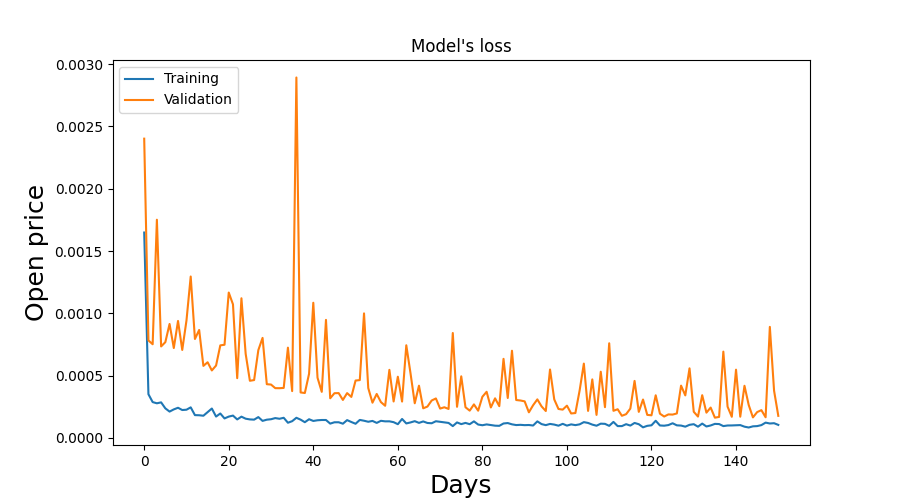
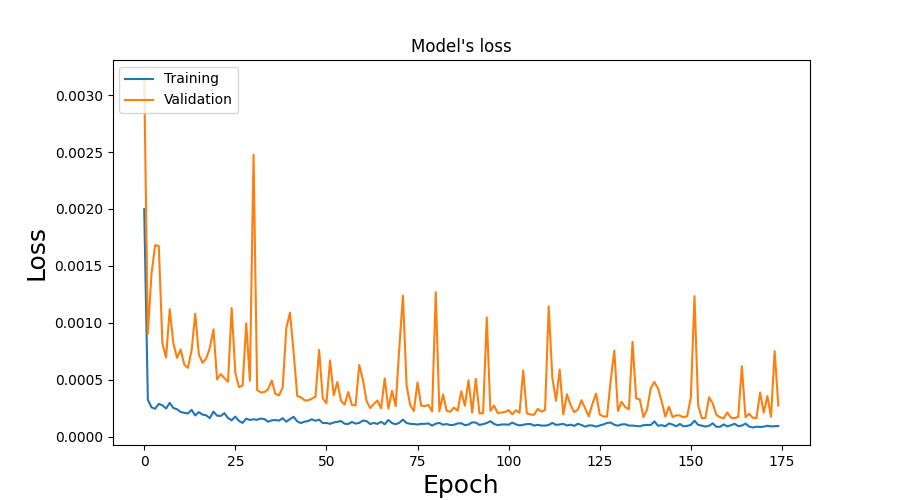
typo on chart

diff --git a/visualization.py b/visualization.py
@@ -19,12 +19,13 @@ def show_dataframe_chart(df: pd.DataFrame, title: str = ""):
     plt.title(title)
     plt.show()
 
-def show_np_arrays(arr1: np.array, arr2: np.array, label1: str = "", label2: str = "", title: str = ""):
+def show_np_arrays(arr1: np.array, arr2: np.array, label1: str = "", label2: str = "", 
+title: str = "", xlabel: str = "Days", ylabel: str = "Open price"):
     plt.figure(figsize = (9,5))
     plt.plot(arr1, label=label1)
     plt.plot(arr2, label=label2)
-    plt.xlabel("Days", fontsize=18)
-    plt.ylabel("Open price", fontsize=18)
+    plt.xlabel(xlabel, fontsize=18)
+    plt.ylabel(ylabel, fontsize=18)
     plt.title(title)
     plt.legend(loc = "upper left")
     plt.show()

diff --git a/stock-prediction.py b/stock-prediction.py
@@ -57,4 +57,4 @@ y_test = np.reshape(y_test, (-1, 1))
 y_test = scaler.inverse_transform(y_test)
 vs.show_np_arrays(y_test, predicted, "Actual price", "Predicted price", "Nvidia price prediction")
 loss, val_loss = model.get_losses()
-vs.show_np_arrays(loss, val_loss, "Training", "Validation", "Model's loss")
+vs.show_np_arrays(loss, val_loss, "Training", "Validation", "Model's loss", "Epoch", "Loss")
